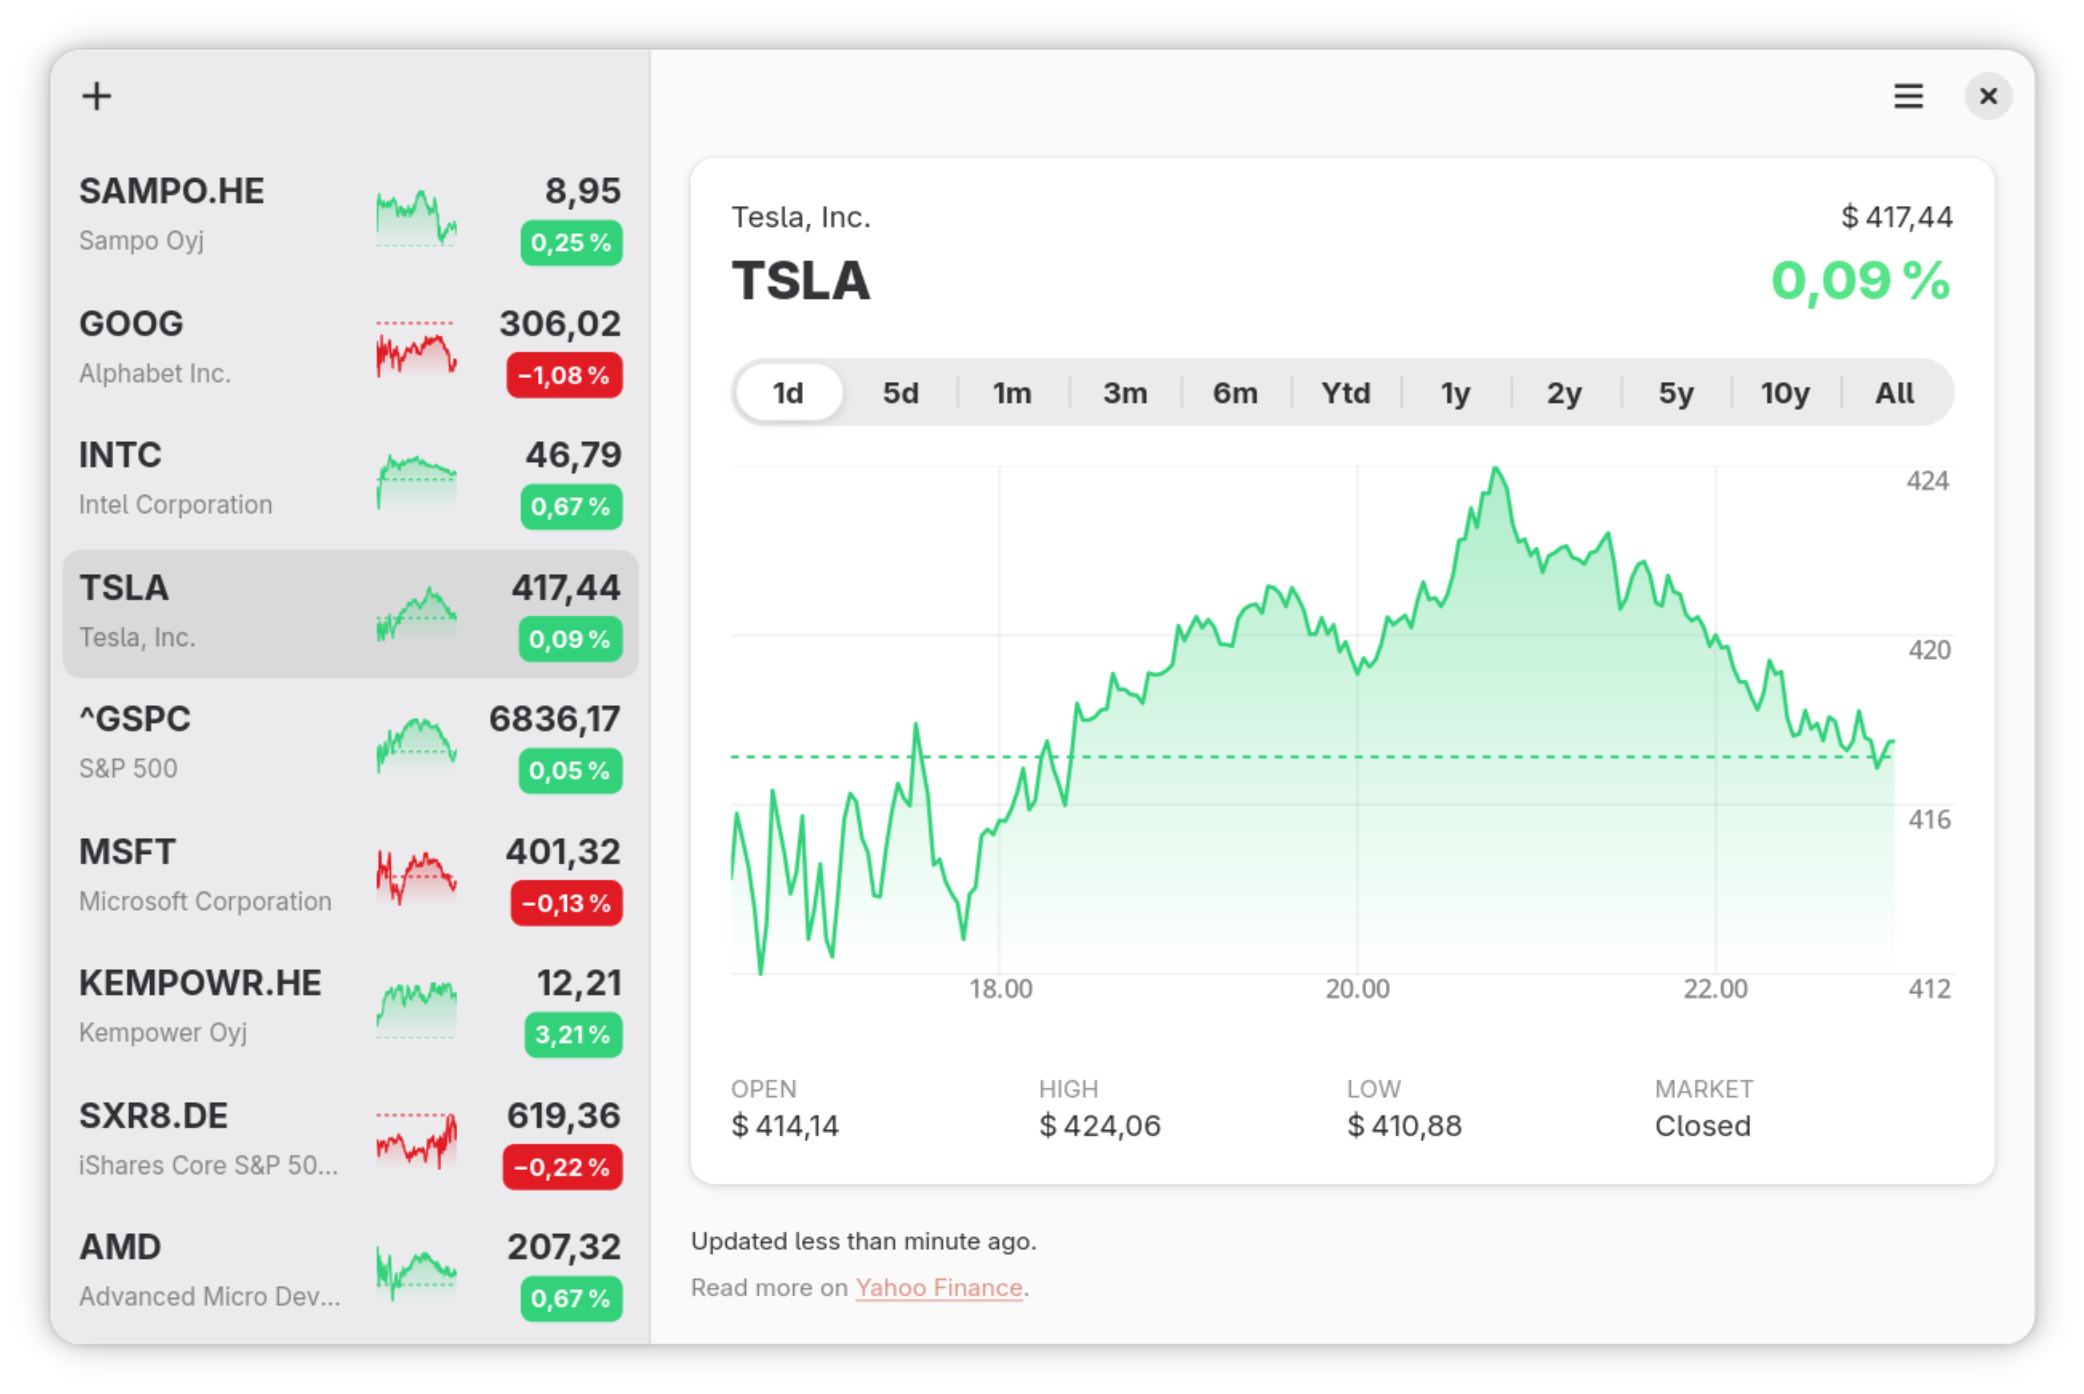
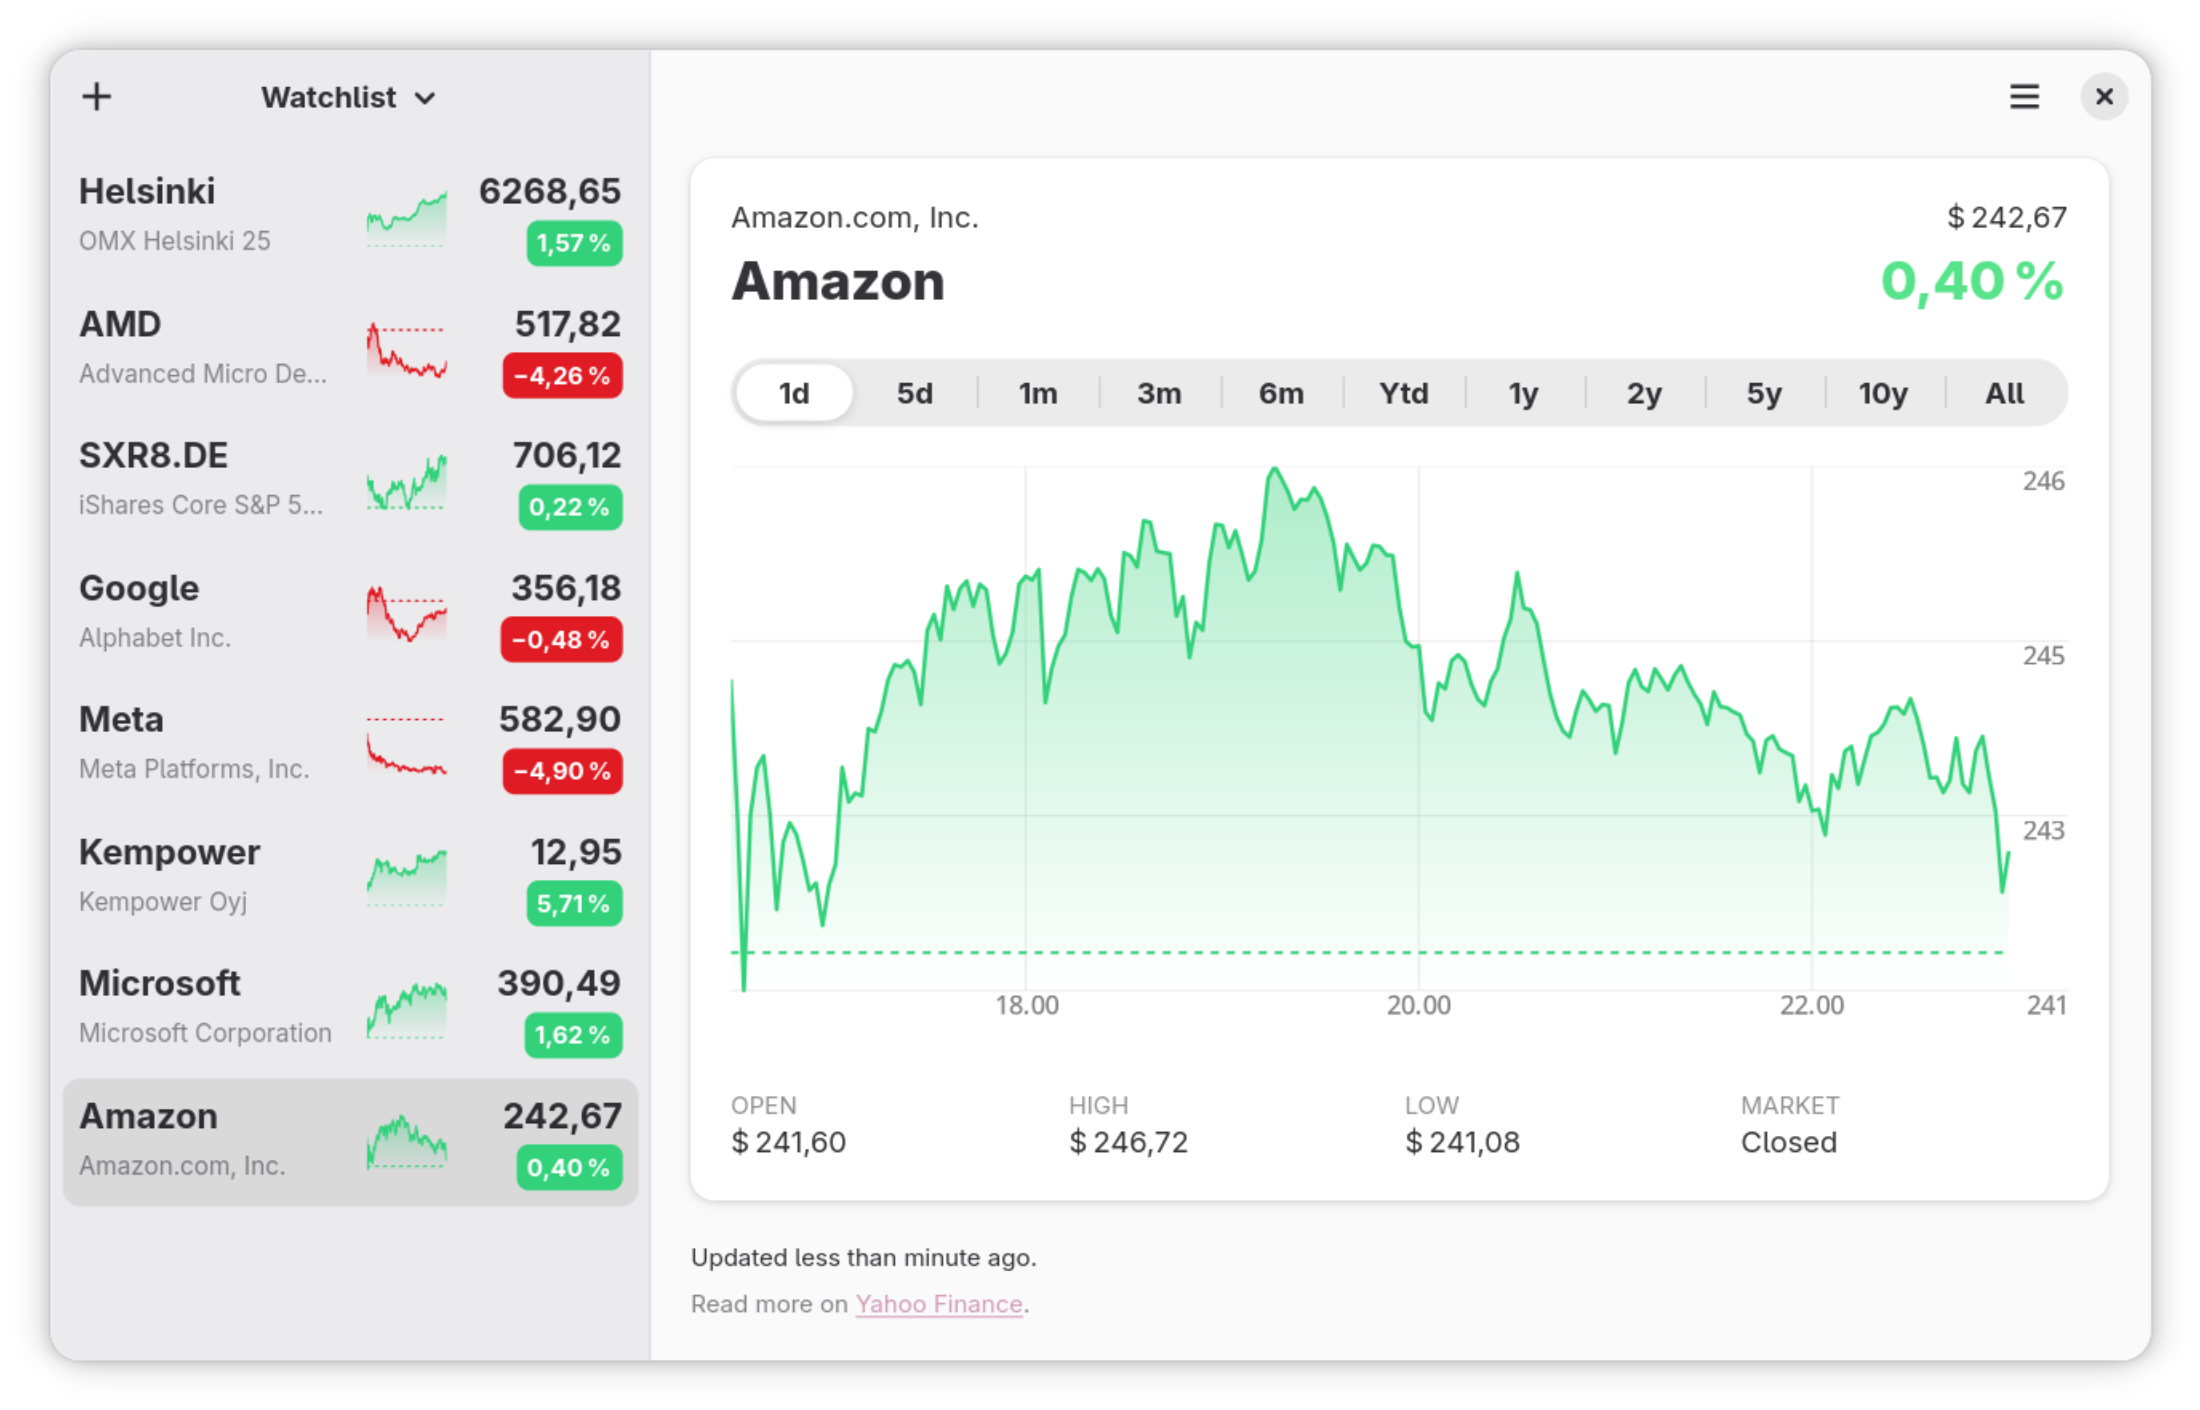
Release 0.7.0

diff --git a/Stocks/Application.cs b/Stocks/Application.cs
@@ -122,7 +122,7 @@ public class Application
         about.ApplicationName = _("Stocks");
         about.ApplicationIcon = APP_ID;
         about.DeveloperName = "Lauri Taimila";
-        about.Version = "0.6.0";
+        about.Version = "0.7.0";
         about.Developers = ["Lauri Taimila"];
         about.Copyright = "© 2026 Lauri Taimila";
         about.LicenseType = Gtk.License.Lgpl30;

diff --git a/CHANGES.md b/CHANGES.md
@@ -26,3 +26,8 @@
 
 ## 0.6.0
 - Create multiple watchlists and switch between them.
+
+## 0.7.0
+- Updated Gir.Core to latest 0.8.0
+- Refactored codebase and removed all compiler warnings
+- Improved UX of switching between watchlists by preloading all tickers